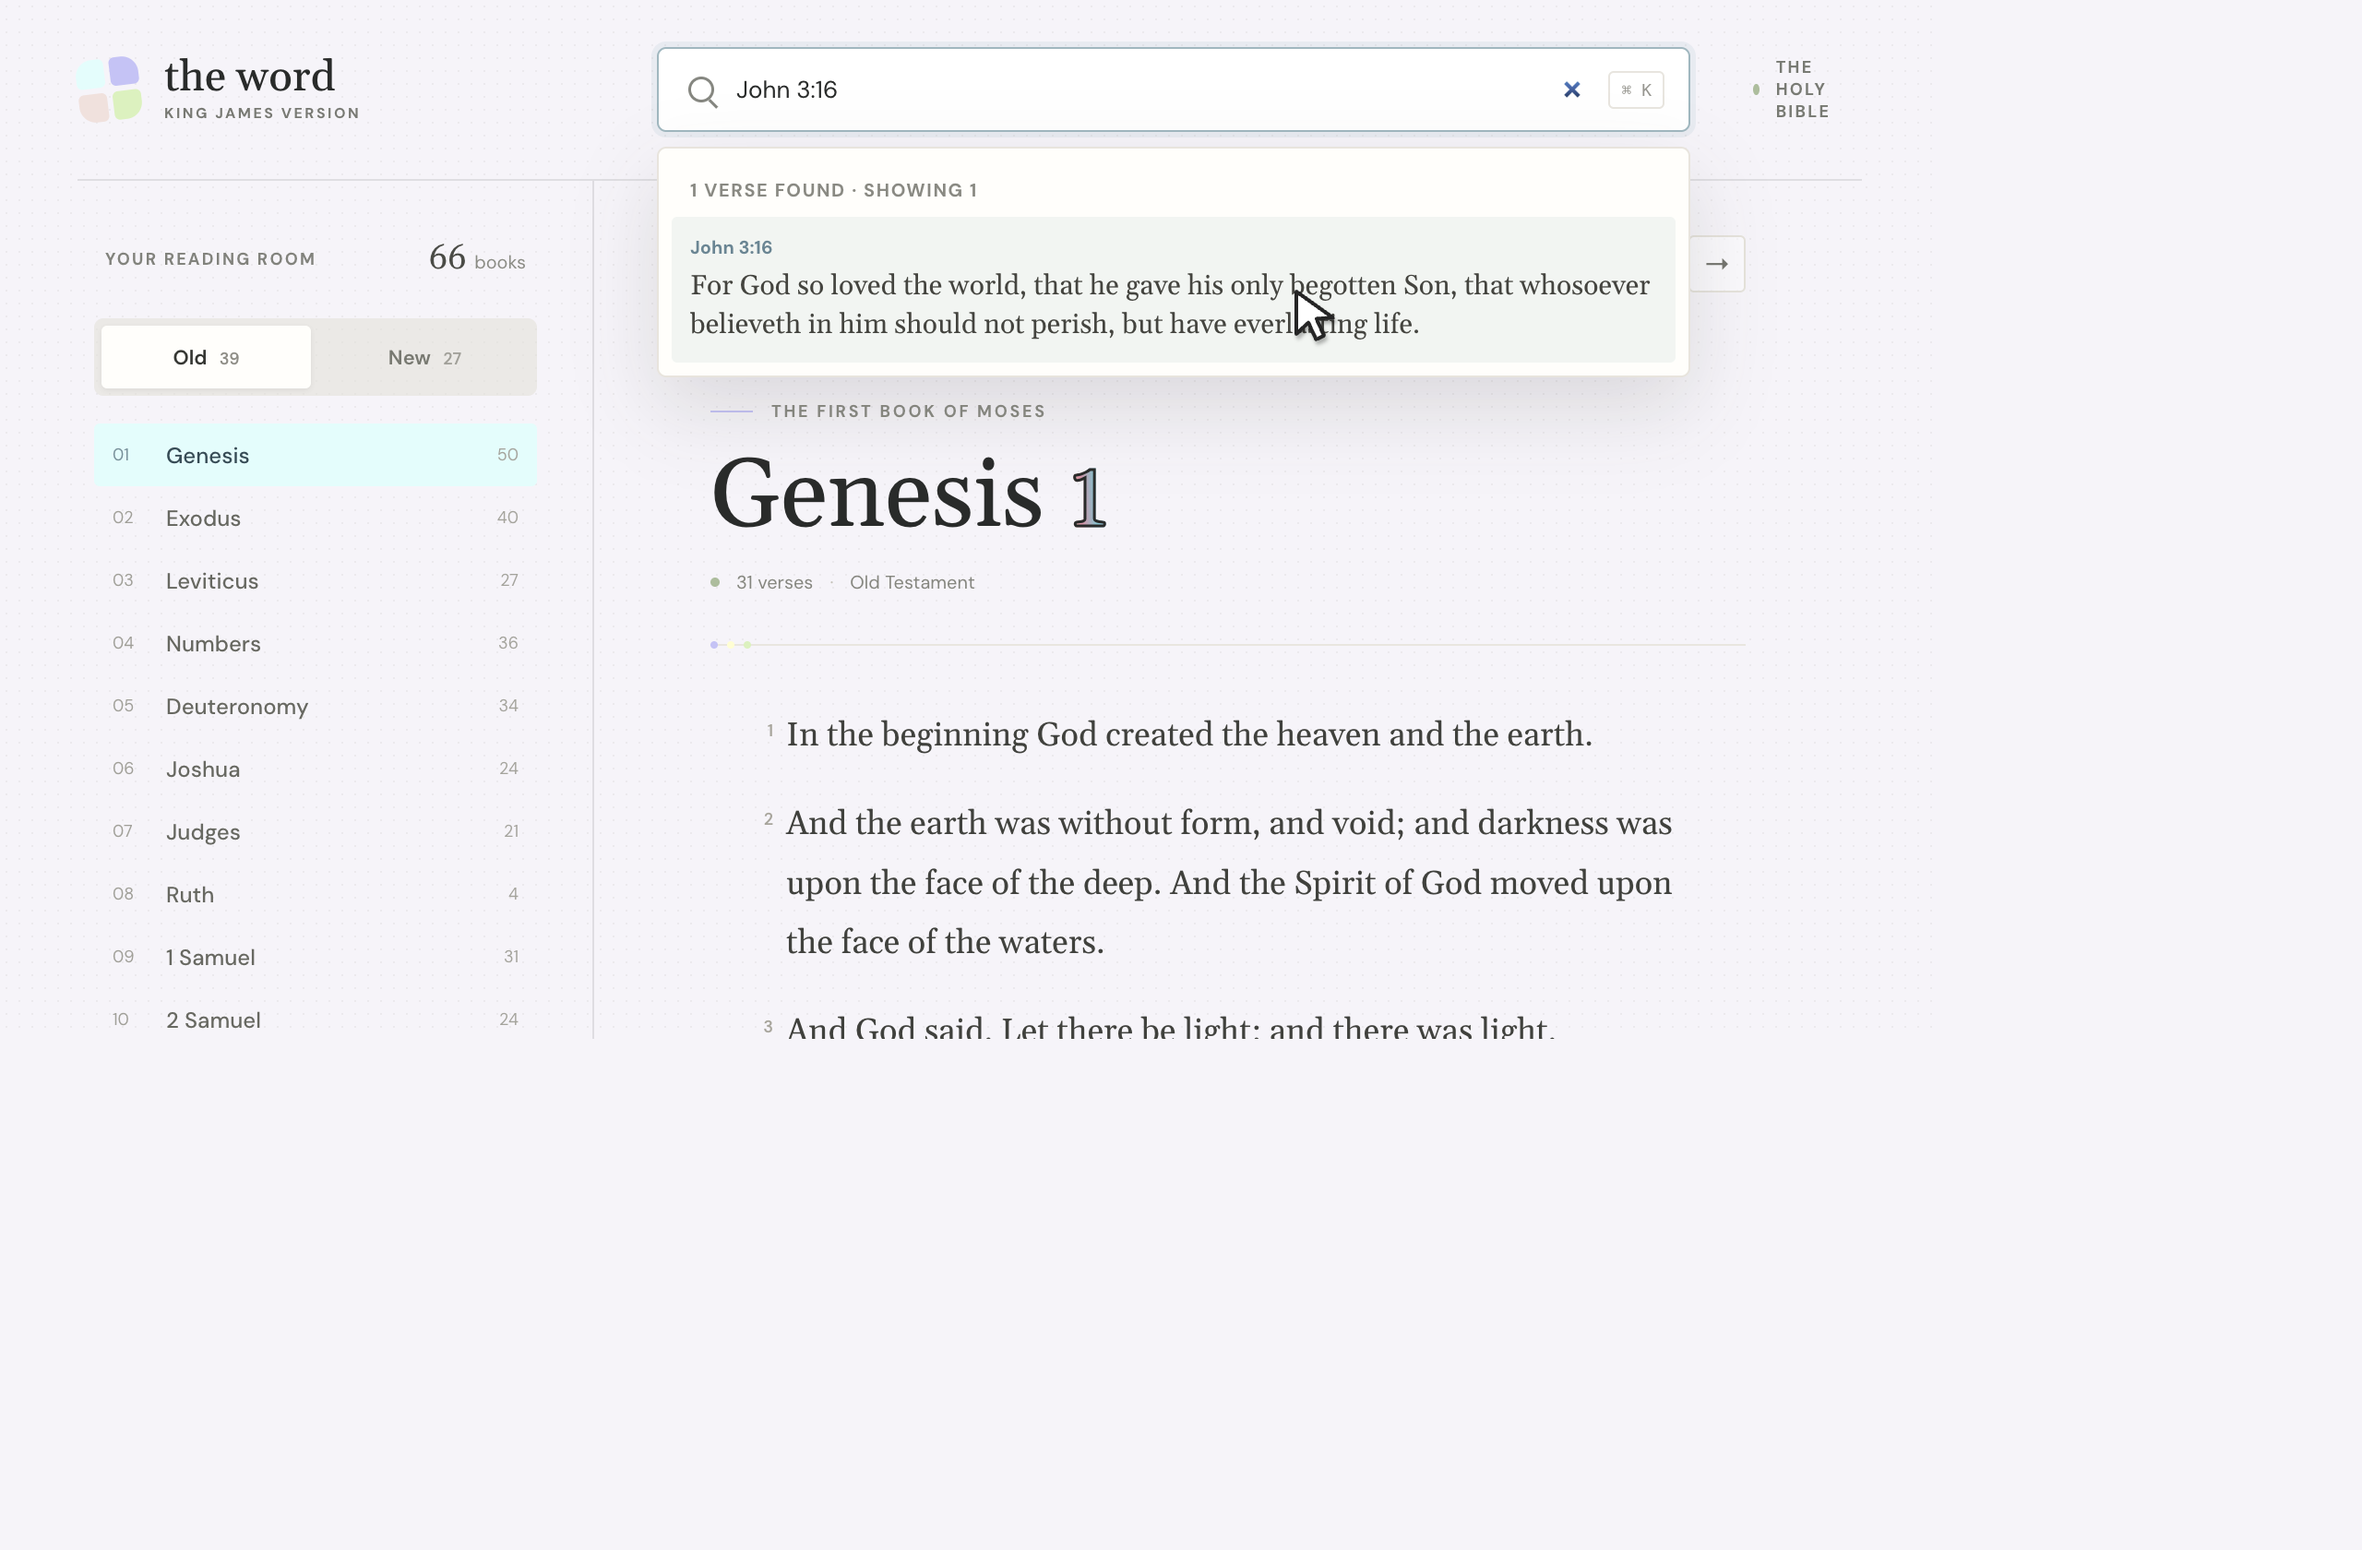
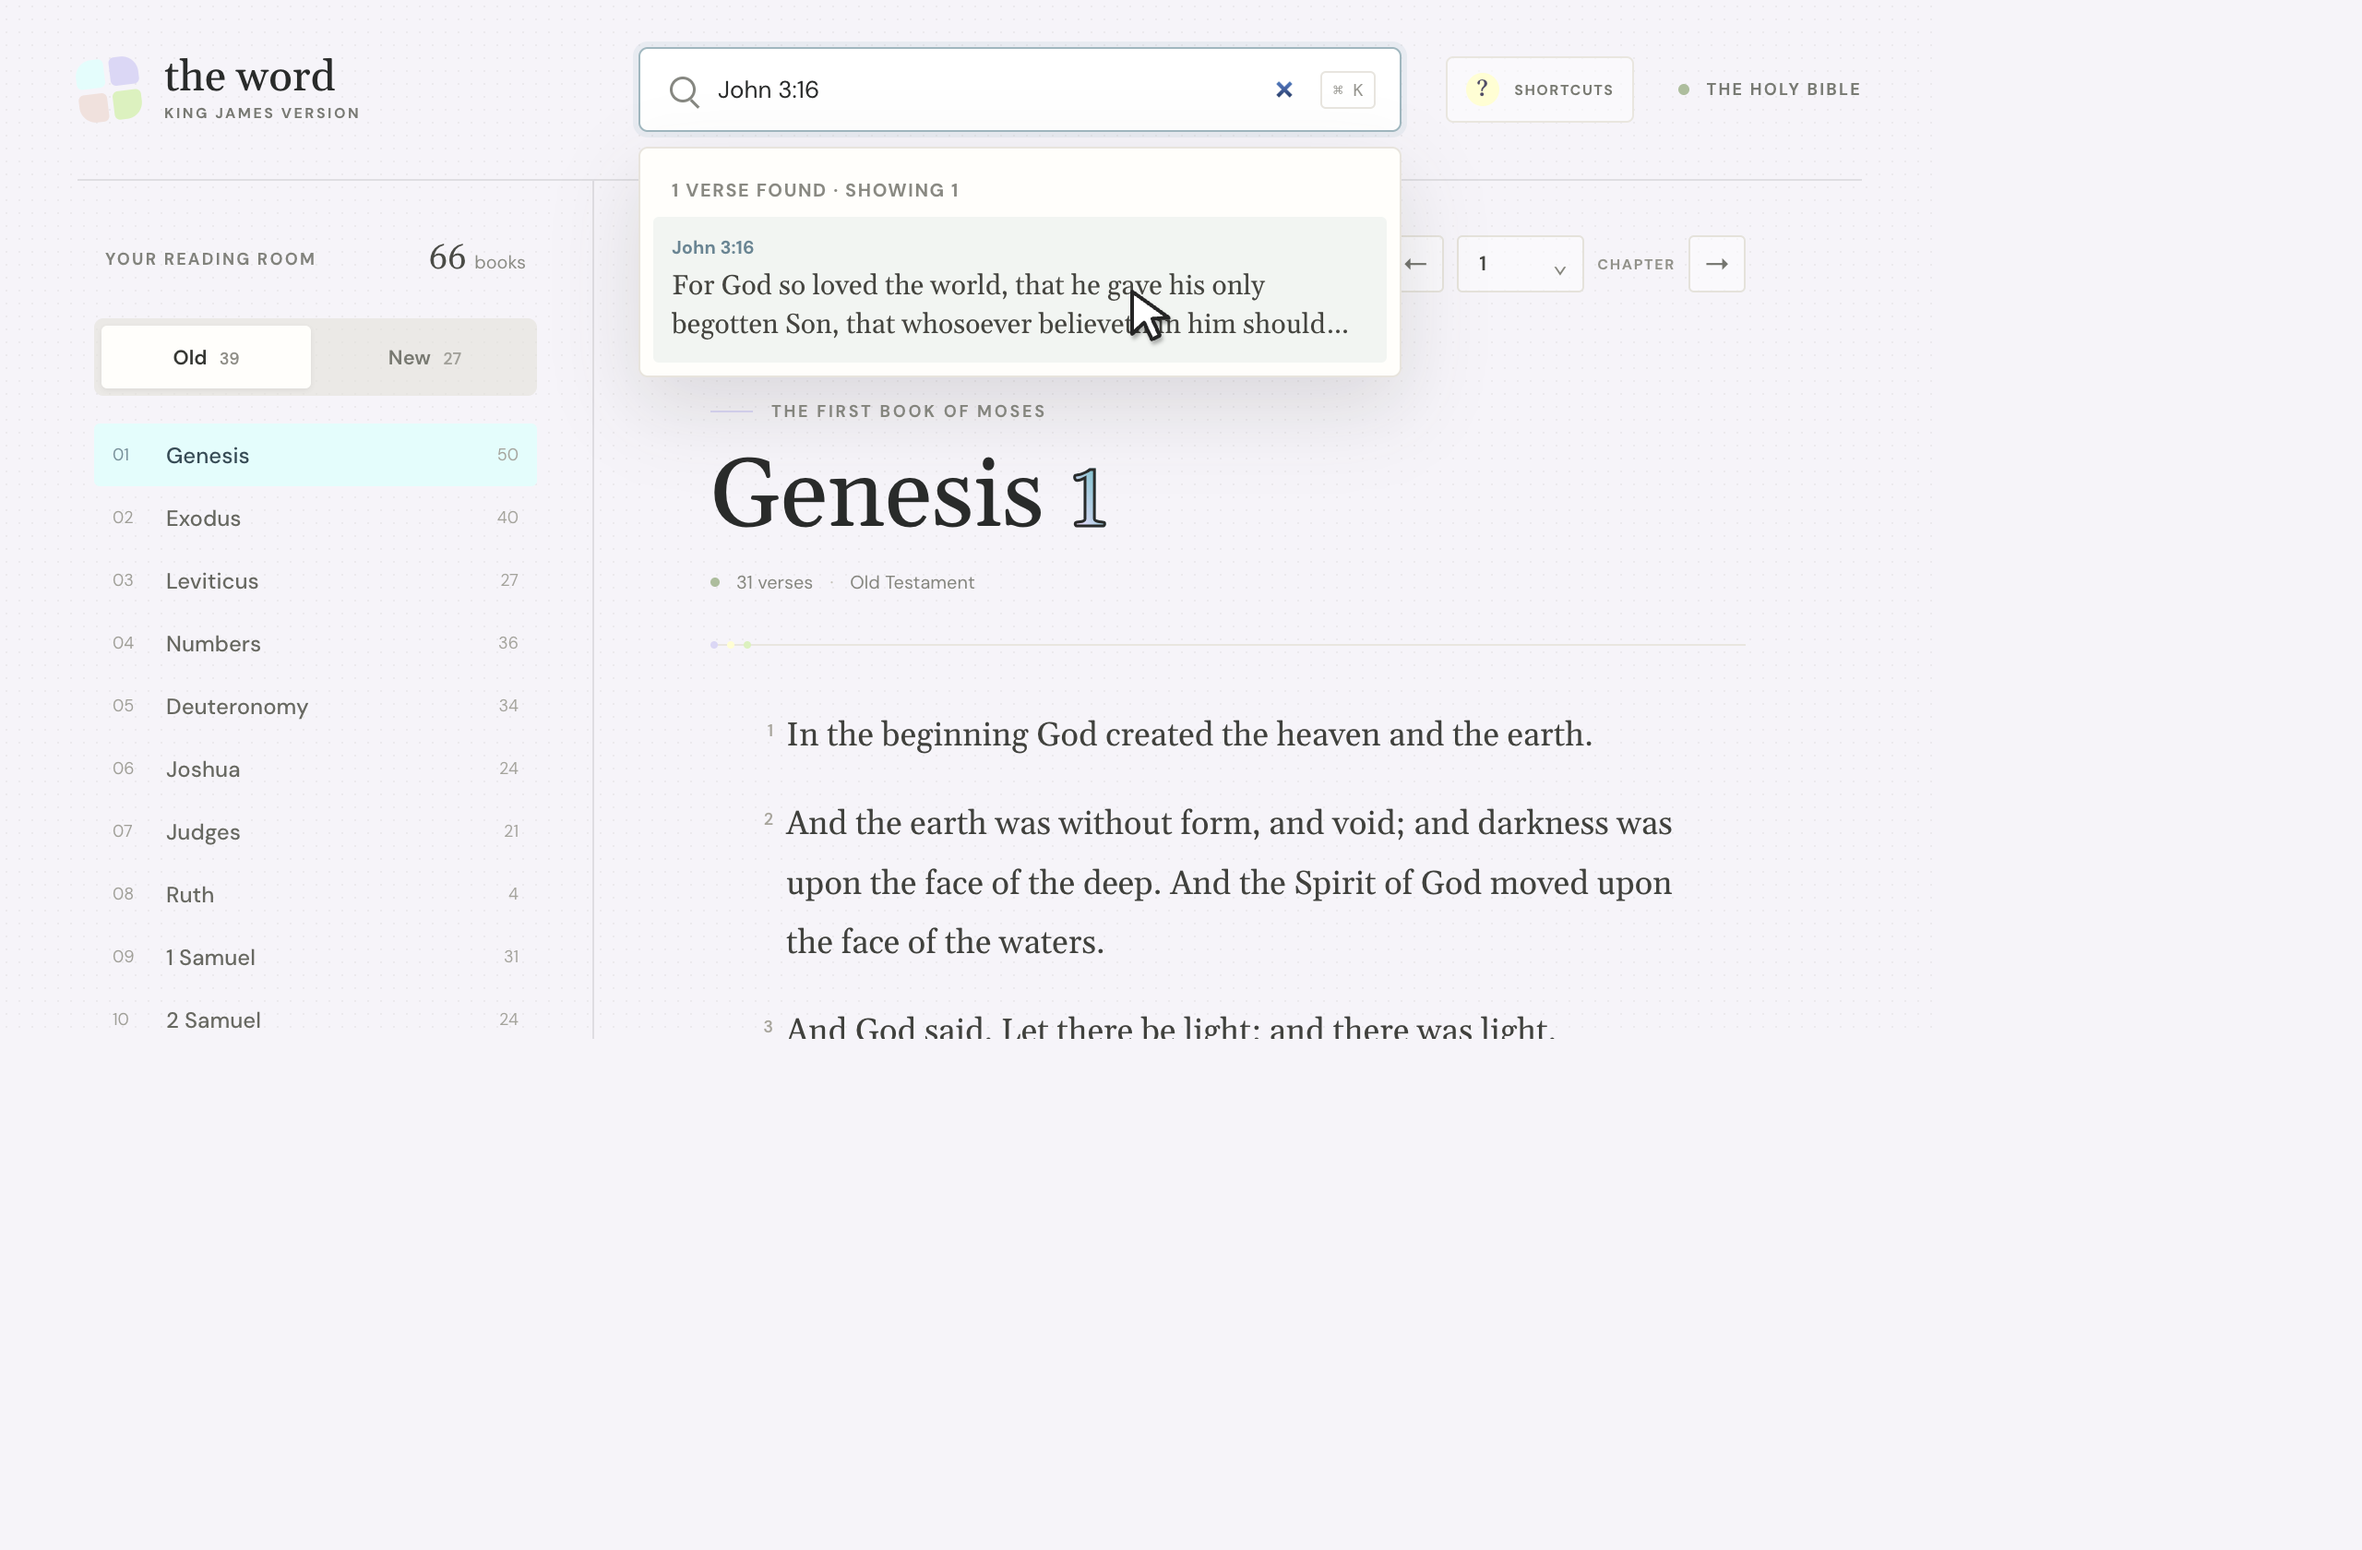
Update demo

diff --git a/README.md b/README.md
@@ -63,7 +63,7 @@ Please review the full text in the linked license file included in this reposito
 
 ![The Word application demo](assets/demo.gif)
 
-The demo shows a pointer entering `John 3:16`, selecting its result, and manually scrolling to the highlighted verse without an automatic jump. To refresh it, replace `assets/demo-frame-01.png` through `assets/demo-frame-08.png` with current captures, then run:
+The demo shows a pointer searching `John 3:16`, opening the shortcut guide, navigating with the arrow keys, and manually scrolling to the highlighted verse without an automatic jump. To refresh it, replace the numbered `assets/demo-frame-*.png` captures, then run:
 
 ```sh
 swift tools/build-demo.swift
